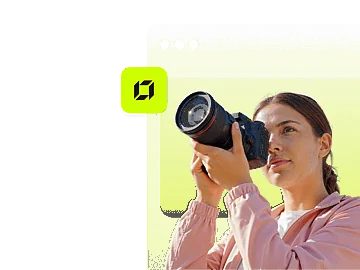
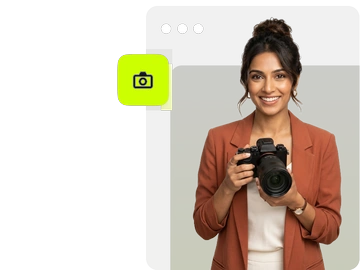
feat: integrate HubSpot lead form with Google Ads tracking and GTM

diff --git a/assets/js/lead.js b/assets/js/lead.js
@@ -7,16 +7,16 @@
   'use strict';
 
   /* ---------------------------------------------------------------------
-     CONFIG: edit these values
-     hubspotFormGuid: create a form in HubSpot (Marketing → Forms) with the
-     fields firstname, phone, message, then copy its Form ID (GUID) here.
-     Until it is set, leads go to the thank-you page and WhatsApp only.
+     CONFIG
+     HubSpot form = the same form your old ads page used (only "phone" is required).
+     Google Ads conversion = the same "lead form fill" conversion as the old page.
      --------------------------------------------------------------------- */
   var CONFIG = {
     whatsappNumber: '918617513004',
     hubspotPortalId: '245081602',
-    hubspotFormGuid: '', // e.g. 'a1b2c3d4-....' (REQUIRED for HubSpot leads)
-    hubspotRegion: '', // leave empty to use the global api.hsforms.com endpoint (set 'eu1' only for EU-hosted portals)
+    hubspotFormGuid: 'bbaca643-e741-42f8-aa5a-4b03e7d94778',
+    hubspotRegion: '', // empty = global api.hsforms.com endpoint
+    adsConversionSendTo: 'AW-17957925667/Bk7pCPKB6cocEKPmgPNC',
     thankYouUrl: 'thank-you.html',
     defaultWaText: 'Hi Digital Grove, I want a website for my business in Siliguri. Please share details.'
   };
@@ -144,9 +144,18 @@
 
       function done() {
         track('generate_lead', { form_id: formId, business_type: type.value, need: need || '(none)', plan: plan || '(none)' });
+        // Same event name as the old ads page, so existing GTM triggers keep working
+        track('form_submit_success', { form_name: 'contact_hubspot', form_id: formId });
         store('dg_lead', JSON.stringify(lead));
-        // Small delay lets tags fire before navigation
-        setTimeout(function () { window.location.href = CONFIG.thankYouUrl; }, 300);
+        var went = false;
+        function go() { if (!went) { went = true; window.location.href = CONFIG.thankYouUrl; } }
+        // Google Ads conversion (lead form fill); redirect once it is sent, or after 1.2s at most
+        if (typeof window.gtag === 'function' && CONFIG.adsConversionSendTo) {
+          window.gtag('event', 'conversion', { send_to: CONFIG.adsConversionSendTo, event_callback: go });
+          setTimeout(go, 1200);
+        } else {
+          setTimeout(go, 300);
+        }
       }
       function fail() {
         btn.removeAttribute('aria-busy'); btnLabel.innerHTML = btnHtml;
@@ -157,22 +166,35 @@
       if (!CONFIG.hubspotFormGuid) { done(); return; }
 
       var host = CONFIG.hubspotRegion ? 'https://api-' + CONFIG.hubspotRegion + '.hsforms.com' : 'https://api.hsforms.com';
-      var body = {
-        fields: [
-          { objectTypeId: '0-1', name: 'firstname', value: lead.name },
-          { objectTypeId: '0-1', name: 'phone', value: lead.phone },
-          { objectTypeId: '0-1', name: 'message', value: message }
-        ],
-        context: { pageUri: window.location.href, pageName: document.title }
-      };
+      var parts = lead.name.split(/\s+/);
+      var coreFields = [
+        { name: 'firstname', value: parts[0] },
+        { name: 'phone', value: lead.phone },
+        { name: 'message', value: message }
+      ];
+      if (parts.length > 1) coreFields.splice(1, 0, { name: 'lastname', value: parts.slice(1).join(' ') });
+      // UTM / click-id fields, sent the same way as the old ads page
+      var attrFields = Object.keys(attr).map(function (k) { return { name: k, value: attr[k] }; });
+      var context = { pageUri: window.location.href, pageName: document.title };
       var hutk = getCookie('hubspotutk');
-      if (hutk) body.context.hutk = hutk;
+      if (hutk) context.hutk = hutk;
+      var url = host + '/submissions/v3/integration/submit/' + CONFIG.hubspotPortalId + '/' + CONFIG.hubspotFormGuid;
 
-      fetch(host + '/submissions/v3/integration/submit/' + CONFIG.hubspotPortalId + '/' + CONFIG.hubspotFormGuid, {
-        method: 'POST',
-        headers: { 'Content-Type': 'application/json' },
-        body: JSON.stringify(body)
-      }).then(function (r) { if (r.ok) done(); else fail(); }).catch(fail);
+      function send(fields) {
+        return fetch(url, {
+          method: 'POST',
+          headers: { 'Content-Type': 'application/json' },
+          body: JSON.stringify({ fields: fields, context: context })
+        });
+      }
+      send(coreFields.concat(attrFields)).then(function (r) {
+        if (r.ok) return done();
+        // If HubSpot rejects the extra tracking fields, retry with the core fields only
+        if (attrFields.length) {
+          return send(coreFields).then(function (r2) { if (r2.ok) done(); else fail(); });
+        }
+        fail();
+      }).catch(fail);
     });
   });
 

diff --git a/thank-you.html b/thank-you.html
@@ -14,22 +14,30 @@
   <link href="https://fonts.googleapis.com/css2?family=DM+Sans:opsz,wght@9..40,400;9..40,500;9..40,700&display=swap" rel="stylesheet">
   <link rel="stylesheet" href="./assets/css/thank-you.css?v=1.1">
 
-  <!-- Google Tag Manager: paste your GTM container snippet here (same container as the landing page). -->
+  <!-- Google tag (gtag.js) – Google Ads AW-17957925667 -->
+  <script async src="https://www.googletagmanager.com/gtag/js?id=AW-17957925667"></script>
+  <script>
+    window.dataLayer = window.dataLayer || [];
+    function gtag(){dataLayer.push(arguments);}
+    gtag('js', new Date());
+    gtag('config', 'AW-17957925667');
+  </script>
+  <!-- Google Tag Manager -->
+  <script>(function(w,d,s,l,i){w[l]=w[l]||[];w[l].push({'gtm.start':
+  new Date().getTime(),event:'gtm.js'});var f=d.getElementsByTagName(s)[0],
+  j=d.createElement(s),dl=l!='dataLayer'?'&l='+l:'';j.async=true;j.src=
+  'https://www.googletagmanager.com/gtm.js?id='+i+dl;f.parentNode.insertBefore(j,f);
+  })(window,document,'script','dataLayer','GTM-MBS7FWKB');</script>
+  <!-- End Google Tag Manager -->
 
-  <!--
-    Google Ads conversion (only if you are NOT using GTM). Replace AW-XXXXXXXXX and the label:
-    <script async src="https://www.googletagmanager.com/gtag/js?id=AW-XXXXXXXXX"></script>
-    <script>
-      window.dataLayer = window.dataLayer || [];
-      function gtag(){dataLayer.push(arguments);}
-      gtag('js', new Date());
-      gtag('config', 'AW-XXXXXXXXX');
-      gtag('event', 'conversion', { send_to: 'AW-XXXXXXXXX/CONVERSION_LABEL', value: 1.0, currency: 'INR' });
-    </script>
-  -->
+  <!-- The Google Ads lead conversion is sent by the form (assets/js/lead.js) before redirecting here, so it is not repeated on this page. -->
 </head>
 
 <body>
+  <!-- Google Tag Manager (noscript) -->
+  <noscript><iframe src="https://www.googletagmanager.com/ns.html?id=GTM-MBS7FWKB"
+  height="0" width="0" style="display:none;visibility:hidden"></iframe></noscript>
+  <!-- End Google Tag Manager (noscript) -->
   <svg xmlns="http://www.w3.org/2000/svg" style="display:none" aria-hidden="true">
     <symbol id="i-check" viewBox="0 0 24 24"><path d="M5 12.5l4.5 4.5L19 7.5" fill="none" stroke="currentColor" stroke-width="2.4" stroke-linecap="round" stroke-linejoin="round"/></symbol>
     <symbol id="i-wa" viewBox="0 0 24 24"><path fill="currentColor" d="M17.5 14.4c-.3-.15-1.75-.86-2.02-.96-.27-.1-.47-.15-.67.15-.2.3-.77.96-.94 1.16-.17.2-.35.22-.64.07-.3-.15-1.25-.46-2.38-1.47-.88-.79-1.47-1.76-1.65-2.06-.17-.3-.02-.46.13-.6.13-.14.3-.35.45-.52.15-.17.2-.3.3-.5.1-.2.05-.37-.03-.52-.07-.15-.67-1.6-.92-2.2-.24-.58-.49-.5-.67-.5h-.57c-.2 0-.52.07-.8.37-.27.3-1.04 1.02-1.04 2.48 0 1.46 1.07 2.88 1.22 3.08.15.2 2.1 3.2 5.08 4.48.71.31 1.27.49 1.7.63.72.23 1.37.2 1.88.12.57-.09 1.75-.72 2-1.41.25-.7.25-1.29.17-1.41-.07-.13-.27-.2-.57-.35zM12.05 21.8h-.01a9.87 9.87 0 01-5.03-1.38l-.36-.21-3.74.98 1-3.65-.24-.37a9.86 9.86 0 01-1.51-5.26c0-5.45 4.44-9.88 9.9-9.88 2.64 0 5.12 1.03 6.99 2.9a9.82 9.82 0 012.89 6.99c0 5.45-4.44 9.88-9.89 9.88zm8.41-18.3A11.81 11.81 0 0012.05 0C5.5 0 .16 5.34.16 11.9c0 2.1.55 4.14 1.59 5.95L.06 24l6.3-1.65a11.88 11.88 0 005.69 1.45h.01c6.55 0 11.89-5.34 11.89-11.9 0-3.18-1.24-6.16-3.49-8.41z"/></symbol>
@@ -58,7 +66,7 @@
     </div>
   </main>
 
-  <script src="./assets/js/lead.js?v=1.0" defer></script>
+  <script src="./assets/js/lead.js?v=3.0" defer></script>
 </body>
 
 </html>

diff --git a/index.html b/index.html
@@ -162,11 +162,28 @@
     If you host this page elsewhere, uncomment it (245081602 = your HubSpot portal ID from your file URLs; please confirm).
     <script id="hs-script-loader" async defer src="//js-na2.hs-scripts.com/245081602.js"></script>
   -->
-  <!-- Google Tag Manager: paste your GTM container snippet here (head part). -->
+  <!-- Google tag (gtag.js) – Google Ads AW-17957925667 -->
+  <script async src="https://www.googletagmanager.com/gtag/js?id=AW-17957925667"></script>
+  <script>
+    window.dataLayer = window.dataLayer || [];
+    function gtag(){dataLayer.push(arguments);}
+    gtag('js', new Date());
+    gtag('config', 'AW-17957925667');
+  </script>
+  <!-- Google Tag Manager -->
+  <script>(function(w,d,s,l,i){w[l]=w[l]||[];w[l].push({'gtm.start':
+  new Date().getTime(),event:'gtm.js'});var f=d.getElementsByTagName(s)[0],
+  j=d.createElement(s),dl=l!='dataLayer'?'&l='+l:'';j.async=true;j.src=
+  'https://www.googletagmanager.com/gtm.js?id='+i+dl;f.parentNode.insertBefore(j,f);
+  })(window,document,'script','dataLayer','GTM-MBS7FWKB');</script>
+  <!-- End Google Tag Manager -->
 </head>
 
 <body class="lang-en-IN ltr">
-  <!-- Google Tag Manager (noscript): paste here. -->
+  <!-- Google Tag Manager (noscript) -->
+  <noscript><iframe src="https://www.googletagmanager.com/ns.html?id=GTM-MBS7FWKB"
+  height="0" width="0" style="display:none;visibility:hidden"></iframe></noscript>
+  <!-- End Google Tag Manager (noscript) -->
   <!-- Reusable SVG Icon Sprite -->
   <svg xmlns="http://www.w3.org/2000/svg" style="display:none;" id="dg-svg-sprite">
     <defs>
@@ -1443,12 +1460,12 @@
                       </div>
                       <div class="h-mixed-two-third-card__right">
                         <div class="h-image h-mixed-two-third-card__desktop-image"><img class="" style=""
-                            src="./assets/images/card-portfolio-showcase-desktop.webp"
-                            srcset="./assets/images/card-portfolio-showcase-desktop.webp"
+                            src="./assets/images/card-portfolio-showcase-desktop.webp?v=indian1"
+                            srcset="./assets/images/card-portfolio-showcase-desktop.webp?v=indian1"
                             alt="Portfolio website for professionals" loading="lazy" fetchpriority="low"></div>
                         <div class="h-image h-mixed-two-third-card__mobile-image"><img class="" style=""
-                            src="./assets/images/card-portfolio-showcase-mobile.webp"
-                            srcset="./assets/images/card-portfolio-showcase-mobile.webp" alt="" loading="lazy"
+                            src="./assets/images/card-portfolio-showcase-mobile.webp?v=indian1"
+                            srcset="./assets/images/card-portfolio-showcase-mobile.webp?v=indian1" alt="" loading="lazy"
                             fetchpriority="low"></div>
                       </div>
                     </div>
@@ -4084,7 +4101,7 @@
 
   <!-- Application Controller -->
   <script src="./assets/js/app.js?v=10.2"></script>
-  <script src="./assets/js/lead.js?v=2.1" defer></script>
+  <script src="./assets/js/lead.js?v=3.0" defer></script>
 
 </body>
 

diff --git a/README.md b/README.md
@@ -30,9 +30,9 @@ LP1/
 
 ## Before running ads
 
-1. **Prices:** check ₹9,999 / ₹19,999 / ₹34,999 (pricing cards, FAQ, JSON-LD `OfferCatalog`, hero).
-2. **HubSpot form ID:** set `hubspotFormGuid` in `assets/js/lead.js`. Until you do, **form leads are not saved**: visitors only get the thank-you page and a WhatsApp button.
-3. **Tracking:** add GTM (both pages) or the Google Ads conversion snippet in `thank-you.html`, and create a conversion for the `generate_lead` event.
+1. **Prices:** ₹9,999 / ₹19,999 / ₹34,999 confirmed (pricing cards, FAQ, JSON-LD `OfferCatalog`, hero).
+2. **HubSpot form:** ✅ connected to portal `245081602`, form `bbaca643-e741-42f8-aa5a-4b03e7d94778` (same form as the old ads page; only `phone` is required). Sends firstname/lastname, phone, message and UTM/gclid fields.
+3. **Tracking:** ✅ Google Ads tag `AW-17957925667` + GTM `GTM-MBS7FWKB` on the landing and thank-you pages. A successful form submit fires the Ads conversion `AW-17957925667/Bk7pCPKB6cocEKPmgPNC` and pushes `generate_lead` + `form_submit_success` (same event as the old page) to the dataLayer, then redirects to `thank-you.html` (which does not fire it again).
 4. **URL:** publish at `https://digitalgrove.in/website-design-siliguri`, or update the canonical and OG URLs.
 5. **Privacy policy:** review `privacy-policy.html` and publish it at `digitalgrove.in/privacy-policy` (update the two links if you use a different URL).
 
